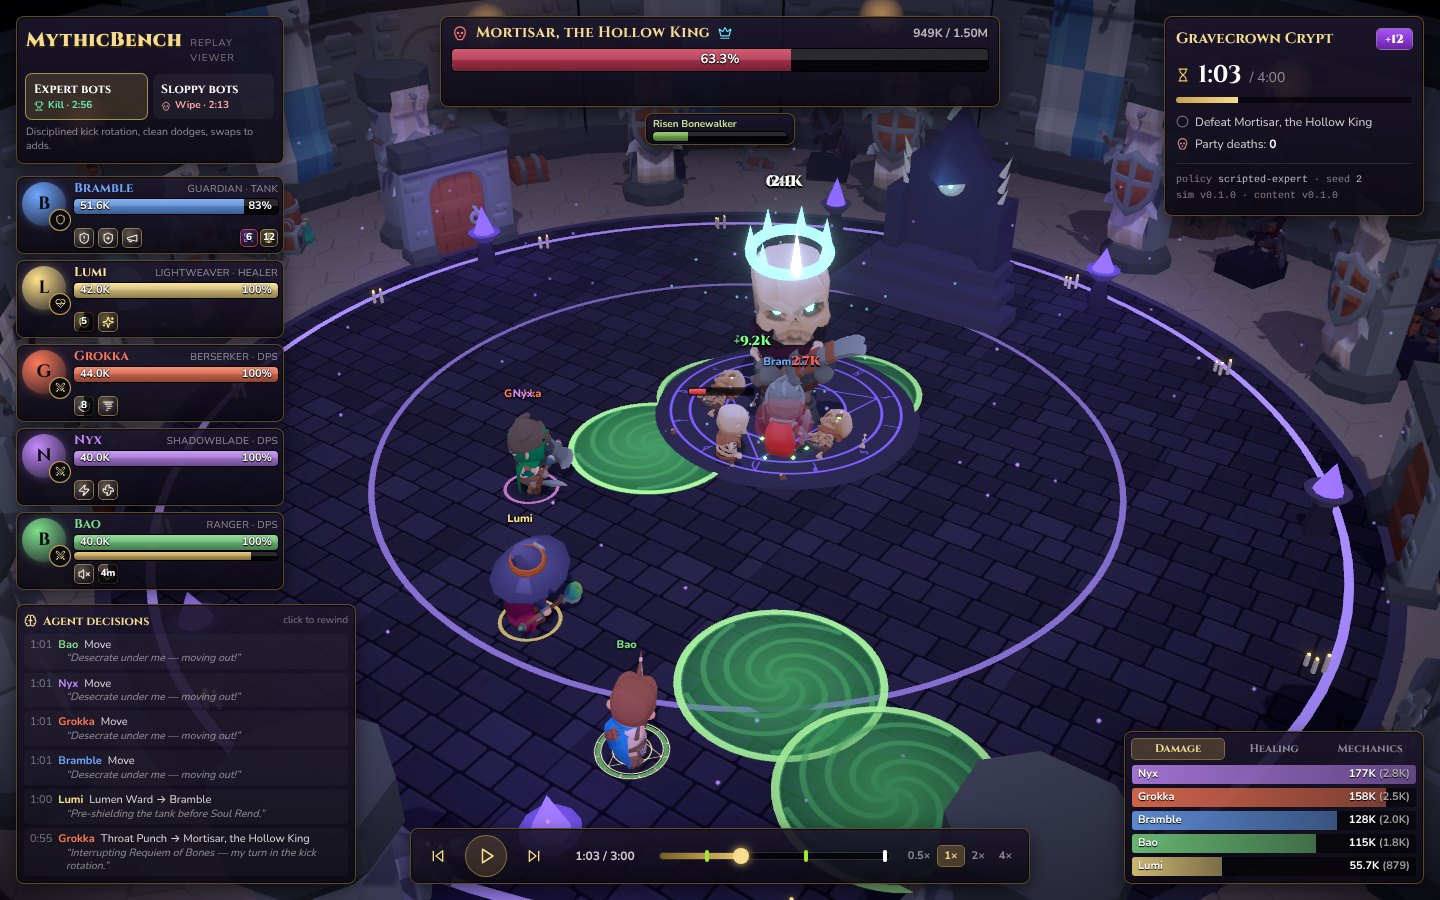
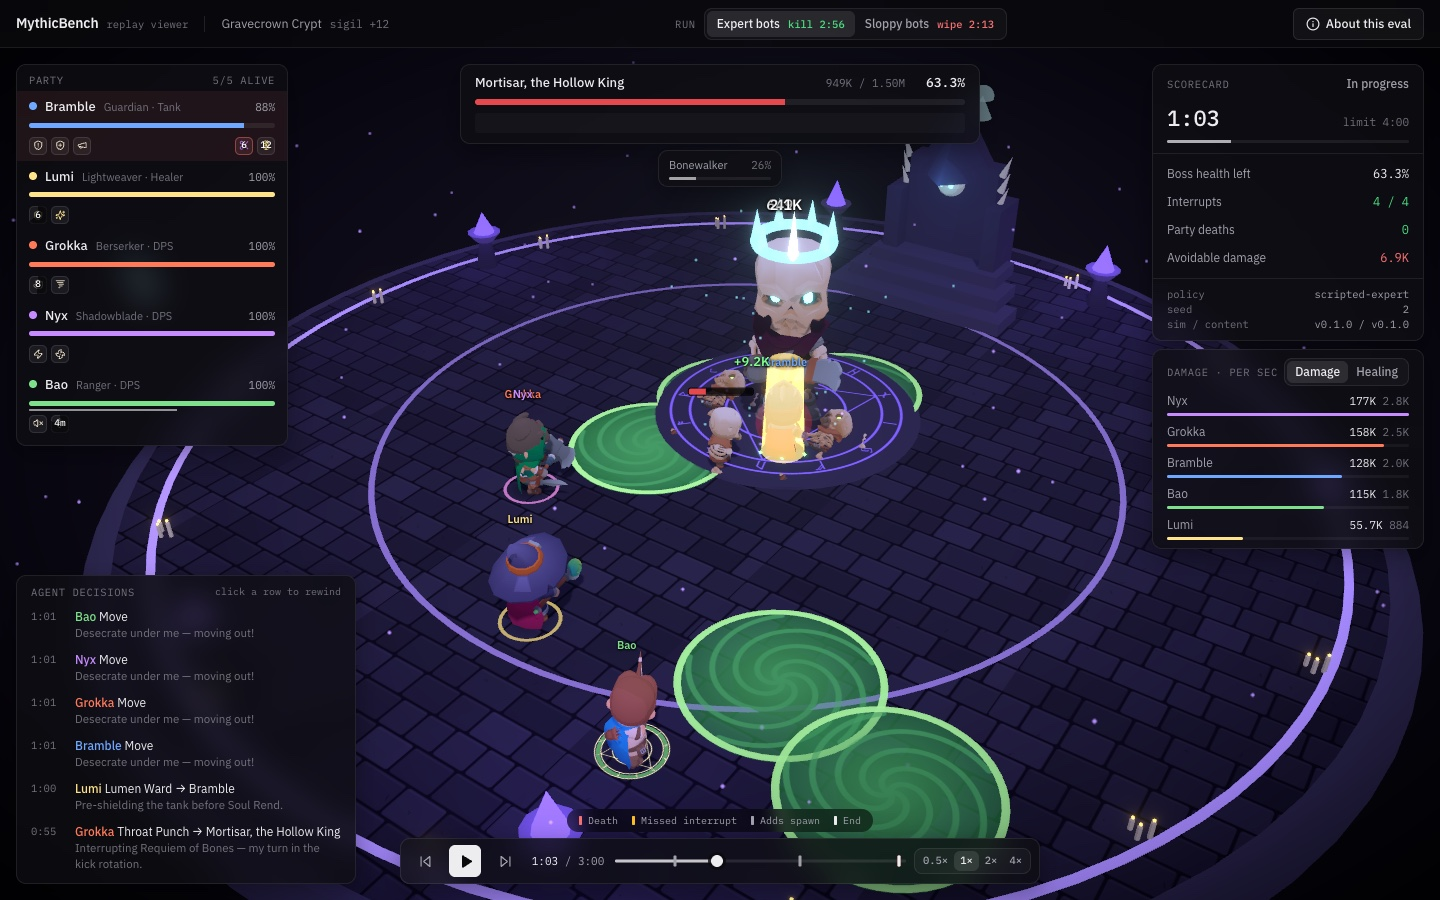
Retake README screenshots with the new UI; fix add pills
- docs/media/hero.jpg: expert bots at 1:03 (seed 2)
- docs/media/wipe.jpg: sloppy bots at 2:04, just after Lumi dies to an
  uninterrupted Requiem of Bones
- Boss frame: add pills wrap onto a second row instead of squashing their
  labels when six adds are up; finished casts read "completed"

diff --git a/web/src/hud/BossFrame.tsx b/web/src/hud/BossFrame.tsx
@@ -44,7 +44,7 @@ export function BossFrame() {
             </div>
           ) : flash ? (
             <div className={`flex h-[20px] items-center justify-center rounded-[3px] font-mono text-[11px] uppercase ${flash.how === 'interrupted' ? 'bg-info/10 text-info' : 'text-fg-faint'}`}>
-              {flash.how === 'interrupted' ? `${engine.replay.abilities[flash.ability]?.name ?? 'cast'} interrupted` : `${engine.replay.abilities[flash.ability]?.name} cast`}
+              {flash.how === 'interrupted' ? `${engine.replay.abilities[flash.ability]?.name ?? 'cast'} interrupted` : `${engine.replay.abilities[flash.ability]?.name} completed`}
             </div>
           ) : (
             <div className="h-[20px] rounded-[3px] bg-white/[0.03]" />
@@ -52,10 +52,10 @@ export function BossFrame() {
         </div>
       </div>
       {adds.length > 0 && (
-        <div className="mt-1.5 flex justify-center gap-1.5">
+        <div className="mt-1.5 flex flex-wrap justify-center gap-1.5">
           {adds.map((a) => (
-            <div key={a.info.id} className="card w-[140px] px-2.5 py-1.5">
-              <div className="flex justify-between text-[11px]">
+            <div key={a.info.id} className="card w-[124px] shrink-0 px-2.5 py-1.5">
+              <div className="flex justify-between gap-2 text-[11px]">
                 <span className="text-fg-muted">{a.info.name.replace('Risen ', '')}</span>
                 <span className="num font-mono text-fg-faint">{Math.round((100 * a.hp) / a.info.max_hp)}%</span>
               </div>
